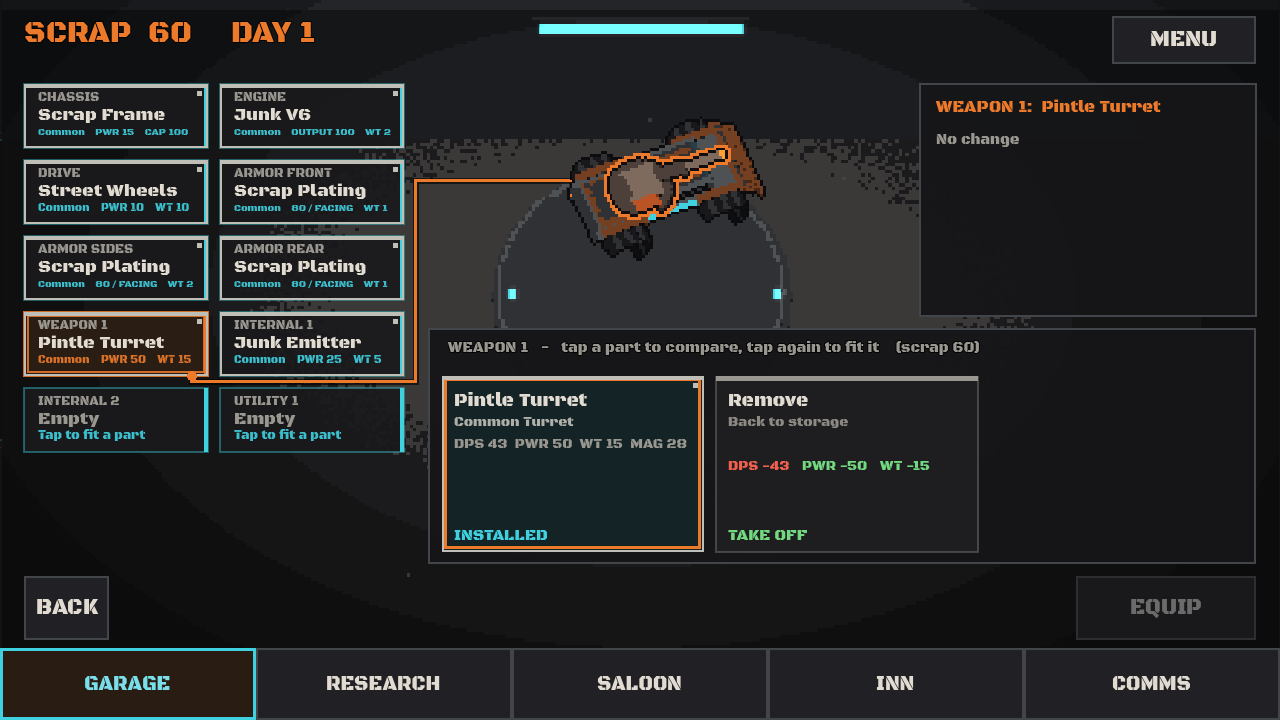
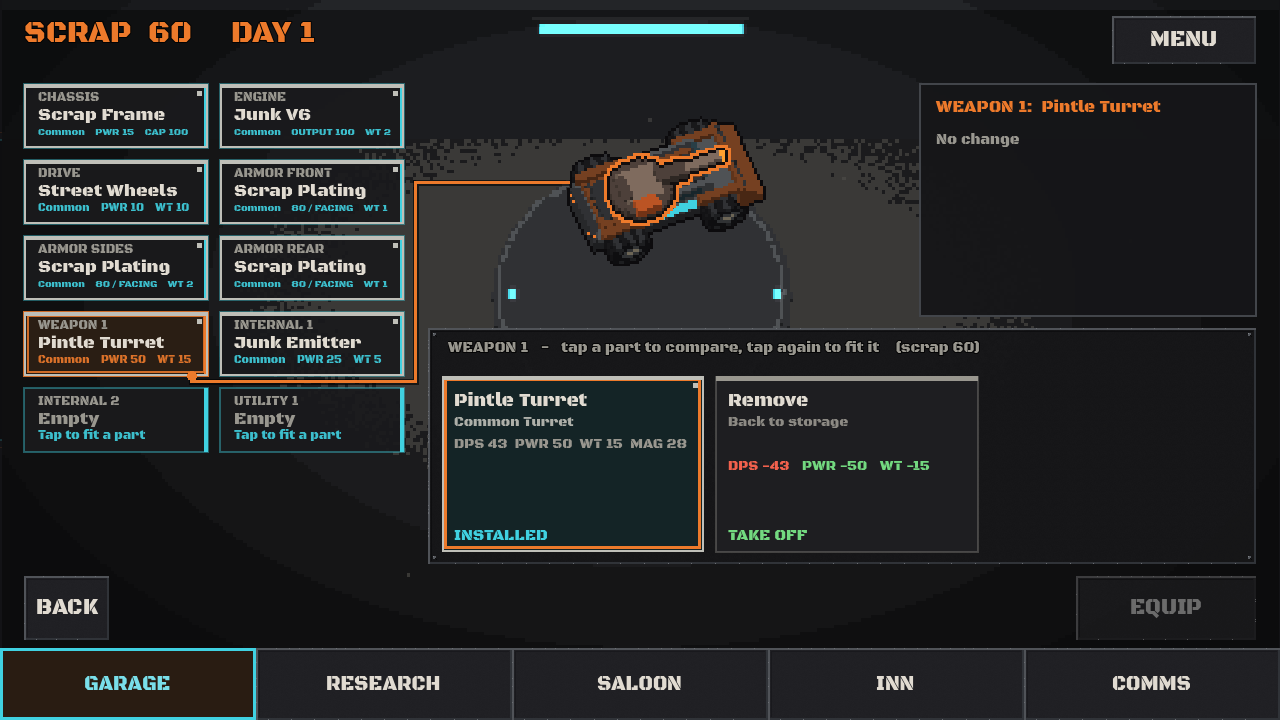
Garage room renders through the shared voxel_render (side-face fix landed in #56; output identical); v4 previews after the main merge

Changed region(s): [[0.3125, 0.1833, 0.5938, 0.3667]]

diff --git a/tools/art/garage_scenes.py b/tools/art/garage_scenes.py
@@ -18,22 +18,10 @@ from PIL import Image
 
 HERE = os.path.dirname(os.path.abspath(__file__))
 sys.path.insert(0, HERE)
-import inspect  # noqa: E402
 import voxel_render  # noqa: E402
 from voxel_render import write_import  # noqa: E402
 
-# voxel_render.render_frame culls side faces with view = (0, -sin t, cos t), so
-# it draws the up-screen (north) sides and drops the south sides, which the
-# projection and depth order say face the camera. Small free-standing rigs hide
-# this; a room can't (no back-wall face, holes in front of objects). The sample
-# renders through a local copy with the sign fixed; fixing the shared renderer
-# would re-render every rig sheet, so it's raised in the PR instead.
-_src = inspect.getsource(voxel_render.render_frame).replace(
-    "view = np.array([0.0, -st, ct])", "view = np.array([0.0, st, ct])")
-assert "[0.0, st, ct]" in _src
-_ns = dict(vars(voxel_render))
-exec(_src, _ns)
-render_frame = _ns["render_frame"]
+from voxel_render import render_frame  # noqa: E402  (side-face fix landed in #56)
 from palette import PALETTE  # noqa: E402
 
 OUT = os.path.join(HERE, "..", "..", "art", "garage")
